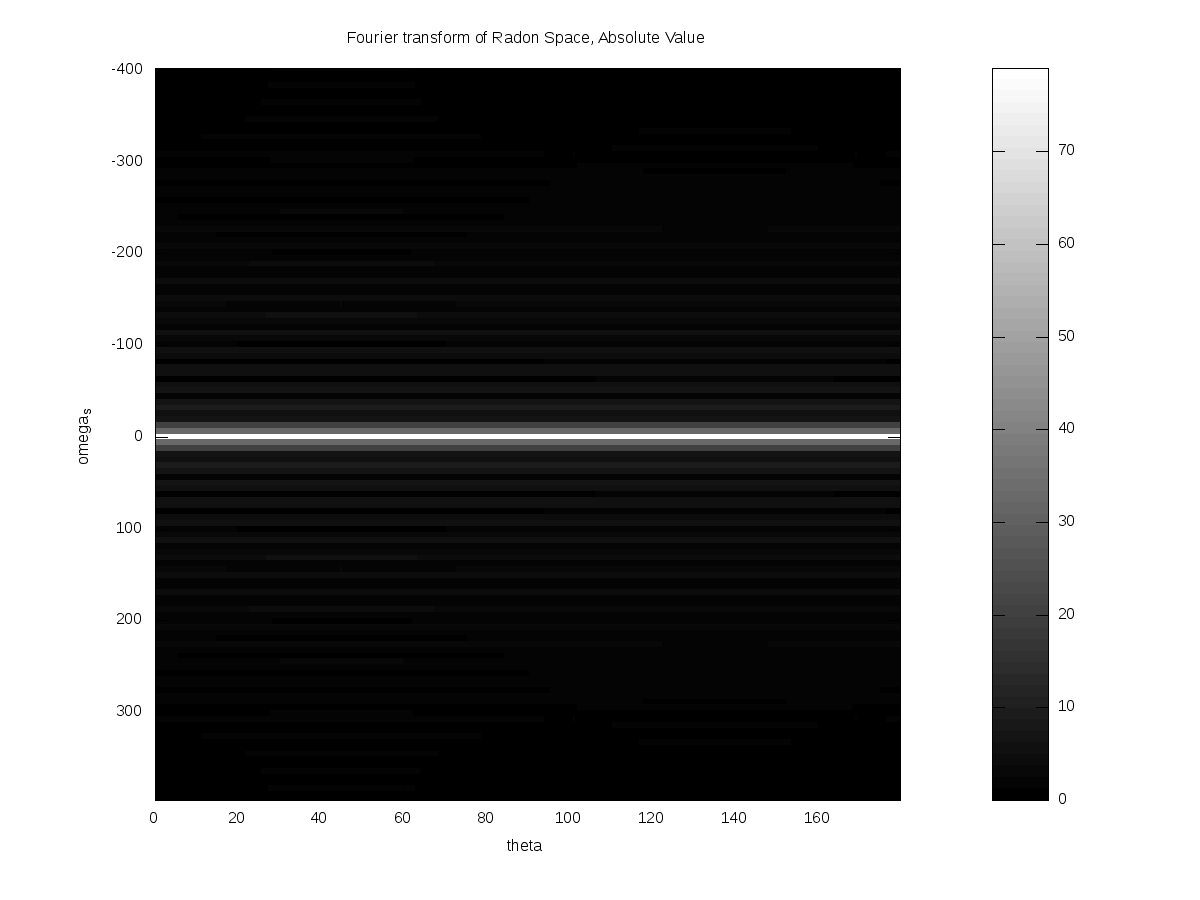
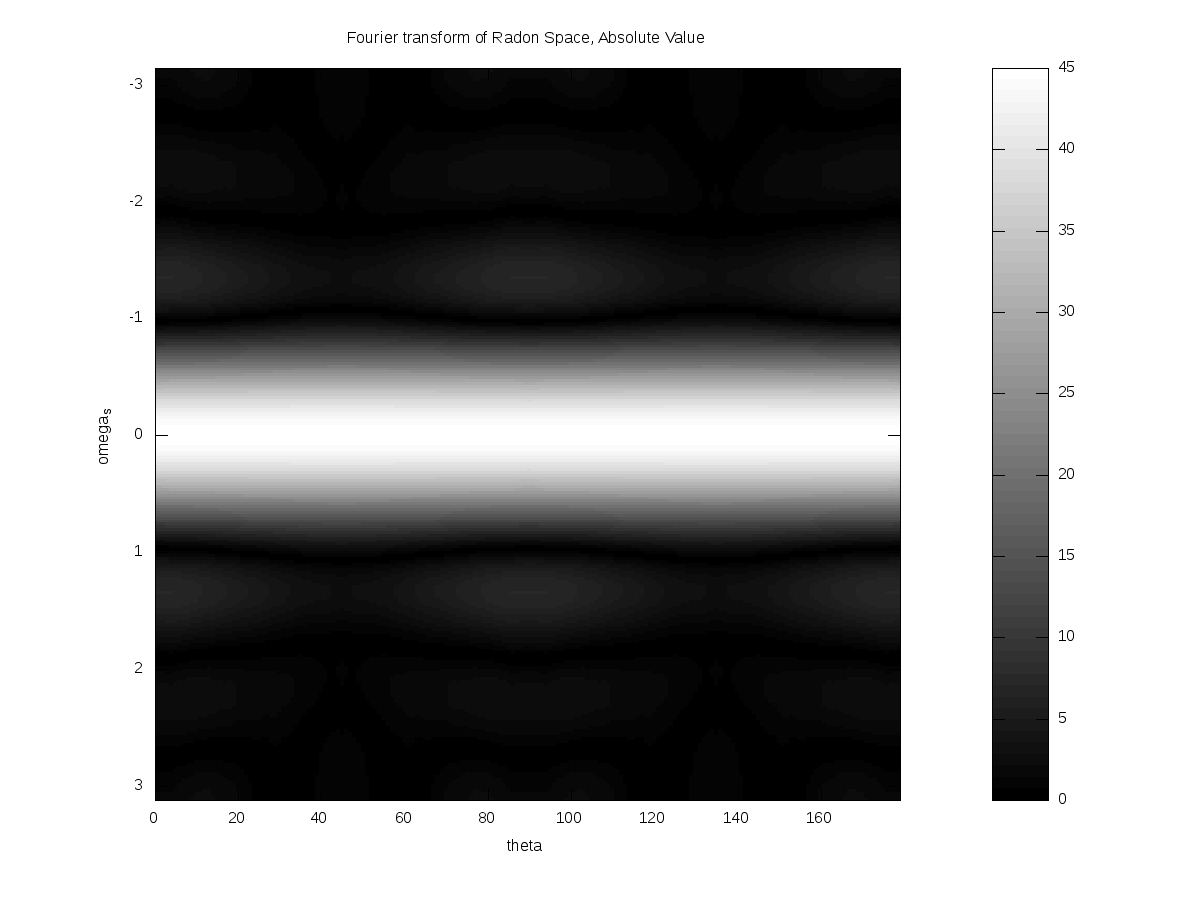
Solved Issue 3. 1. shift the DC to the left before doing FFT --> imaginary part should be zero. 2. correct the formula in "add_noise.m" --> -1 will not appear in Radon space.

diff --git a/branches/doc/zeropad_8m_source.html b/branches/doc/zeropad_8m_source.html
@@ -96,20 +96,31 @@ function toggleVisibility(linkObj) {
 <a name="l00010"></a>00010 % @retval axis_s value of s in each row
 <a name="l00011"></a>00011 function [Radon2 axis_s] = <a class="code" href="zeropad_8m.html#a6eb7731766c5771ae8b938f28a9b97ba" title="Zeropad each column to preprare for FFT.">zeropad</a>(Radon)
 <a name="l00012"></a>00012 
-<a name="l00013"></a>00013 [size_s size_theta] = size(Radon);
-<a name="l00014"></a>00014 next_power_of_2 = 2^ceil(log2(size_s));
+<a name="l00013"></a>00013 [size_s size_theta] = size(Radon)
+<a name="l00014"></a>00014 next_power_of_2 = pow2(nextpow2(size_s));
 <a name="l00015"></a><a class="code" href="zeropad_8m.html#a6eb7731766c5771ae8b938f28a9b97ba">00015</a> 
-<a name="l00016"></a>00016 size_zeropad = next_power_of_2 - size_s;
-<a name="l00017"></a>00017 <a class="code" href="zeropad_8m.html#a6eb7731766c5771ae8b938f28a9b97ba" title="Zeropad each column to preprare for FFT.">zeropad</a> = zeros(floor(size_zeropad/2),size_theta);
-<a name="l00018"></a>00018 Radon2 = vertcat(<a class="code" href="zeropad_8m.html#a6eb7731766c5771ae8b938f28a9b97ba" title="Zeropad each column to preprare for FFT.">zeropad</a>,Radon,<a class="code" href="zeropad_8m.html#a6eb7731766c5771ae8b938f28a9b97ba" title="Zeropad each column to preprare for FFT.">zeropad</a>);
-<a name="l00019"></a>00019 
-<a name="l00020"></a>00020 % <span class="keywordflow">if</span> size of <a class="code" href="zeropad_8m.html#a6eb7731766c5771ae8b938f28a9b97ba" title="Zeropad each column to preprare for FFT.">zeropad</a> is an odd number, add one more row of <a class="code" href="zeropad_8m.html#a6eb7731766c5771ae8b938f28a9b97ba" title="Zeropad each column to preprare for FFT.">zeropad</a> to the bottom.
-<a name="l00021"></a>00021 if(size_zeropad &amp; 2)
-<a name="l00022"></a>00022 Radon2 = vertcat(Radon2,zeros(1,size_theta));
-<a name="l00023"></a>00023 end
-<a name="l00024"></a>00024 
-<a name="l00025"></a>00025 axis_s = linspace(-next_power_of_2/2,next_power_of_2/2,next_power_of_2);
-<a name="l00026"></a>00026 
+<a name="l00016"></a>00016 % Shift the DC to the left
+<a name="l00017"></a>00017 shifted_Radon = ifftshift(Radon,1);
+<a name="l00018"></a>00018 
+<a name="l00019"></a>00019 % Estimate the size of <a class="code" href="zeropad_8m.html#a6eb7731766c5771ae8b938f28a9b97ba" title="Zeropad each column to preprare for FFT.">zeropad</a> required
+<a name="l00020"></a>00020 size_zeropad = next_power_of_2 - size_s;
+<a name="l00021"></a>00021 <a class="code" href="zeropad_8m.html#a6eb7731766c5771ae8b938f28a9b97ba" title="Zeropad each column to preprare for FFT.">zeropad</a> = zeros(size_zeropad,size_theta);
+<a name="l00022"></a>00022 
+<a name="l00023"></a>00023 if(size_s &amp; 2) % if length is an odd number, the &#39;middle&#39; is between (size_s + 1)/2 and (size_s + 1)/2+1
+<a name="l00024"></a>00024         mid_position = (size_s + 1)/2;
+<a name="l00025"></a>00025 else    % if length is an even number, the &#39;middle&#39; is between size_s/2 and size_s/2+1
+<a name="l00026"></a>00026         mid_position = size_s / 2;
+<a name="l00027"></a>00027 end
+<a name="l00028"></a>00028 
+<a name="l00029"></a>00029 % Add zeros to the middle of the shifted signal
+<a name="l00030"></a>00030 shifted_Radon2 = vertcat(shifted_Radon(1:mid_position,:),<a class="code" href="zeropad_8m.html#a6eb7731766c5771ae8b938f28a9b97ba" title="Zeropad each column to preprare for FFT.">zeropad</a>,shifted_Radon((mid_position+1):size_s,:));
+<a name="l00031"></a>00031 
+<a name="l00032"></a>00032 % Shift the DC back to the centre
+<a name="l00033"></a>00033 Radon2 = fftshift(shifted_Radon2,1);
+<a name="l00034"></a>00034 
+<a name="l00035"></a>00035 % label the new s axis
+<a name="l00036"></a>00036 axis_s = linspace(-next_power_of_2/2,next_power_of_2/2,next_power_of_2);
+<a name="l00037"></a>00037 
 </pre></div></div>
 </div>
 <!--- window showing the filter options -->
@@ -126,7 +137,7 @@ function toggleVisibility(linkObj) {
 </iframe>
 </div>
 
-<hr class="footer"/><address class="footer"><small>Generated on Thu Mar 3 2011 20:28:39 by&#160;
+<hr class="footer"/><address class="footer"><small>Generated on Fri Mar 4 2011 00:08:16 by&#160;
 <a href="http://www.doxygen.org/index.html">
 <img class="footer" src="doxygen.png" alt="doxygen"/></a> 1.7.3 </small></address>
 </body>

diff --git a/branches/doc/make__phantom_8m_source.html b/branches/doc/make__phantom_8m_source.html
@@ -99,23 +99,24 @@ function toggleVisibility(linkObj) {
 <a name="l00013"></a>00013 
 <a name="l00014"></a>00014     % T width of the square pulse or the stripe. T must be an even number.
 <a name="l00015"></a>00015     T=round(<a class="code" href="start__simulation_8m.html#a8cc2e7240164328fdc3f0e5e21032c56" title="Size of the phantom.">N</a>/4)*2;
-<a name="l00016"></a><a class="code" href="make__phantom_8m.html#a331e43928fb28a90299da16351a619e6">00016</a> 
+<a name="l00016"></a><a class="code" href="make__phantom_8m.html#a331e43928fb28a90299da16351a619e6">00016</a>     R=T/2;
 <a name="l00017"></a>00017 
 <a name="l00018"></a>00018 <span class="keywordflow">switch</span> <a class="code" href="start__simulation_8m.html#a45cde9abb508c62d67c3bb2b9bf566a5" title="Shape of the phantom.">shape</a>
 <a name="l00019"></a>00019   <span class="keywordflow">case</span> {<span class="stringliteral">&#39;Shepp-Logan&#39;</span>,<span class="stringliteral">&#39;Modified Shepp-Logan&#39;</span>}
 <a name="l00020"></a>00020     % Modified Shepp-Logan&#39; gives better visual perception than &#39;Shepp-Logan&#39;
 <a name="l00021"></a>00021     P = phantom(<a class="code" href="start__simulation_8m.html#a45cde9abb508c62d67c3bb2b9bf566a5" title="Shape of the phantom.">shape</a>,<a class="code" href="start__simulation_8m.html#a8cc2e7240164328fdc3f0e5e21032c56" title="Size of the phantom.">N</a>);
 <a name="l00022"></a>00022   <span class="keywordflow">case</span> {<span class="stringliteral">&#39;dot&#39;</span>}
-<a name="l00023"></a>00023     T=2;
-<a name="l00024"></a>00024     P=[zeros(N,(N-T)/2) ones(N,T) zeros(N,(N-T)/2)];
-<a name="l00025"></a>00025     P=P<span class="stringliteral">&#39;*P;</span>
-<a name="l00026"></a>00026 <span class="stringliteral">  case {&#39;</span>square<span class="stringliteral">&#39;}</span>
-<a name="l00027"></a>00027 <span class="stringliteral">    P=[zeros(N,(N-T)/2) ones(N,T) zeros(N,(N-T)/2)];</span>
-<a name="l00028"></a>00028 <span class="stringliteral">    P=P&#39;</span>*P;
-<a name="l00029"></a>00029   <span class="keywordflow">case</span> {<span class="stringliteral">&#39;stripe&#39;</span>}
-<a name="l00030"></a>00030     P=[zeros(N,(N-T)/2) ones(N,T) zeros(N,(N-T)/2)];
-<a name="l00031"></a>00031 end
-<a name="l00032"></a>00032 
+<a name="l00023"></a>00023     R=4;
+<a name="l00024"></a>00024     x=linspace(-<a class="code" href="start__simulation_8m.html#a8cc2e7240164328fdc3f0e5e21032c56" title="Size of the phantom.">N</a>/2,<a class="code" href="start__simulation_8m.html#a8cc2e7240164328fdc3f0e5e21032c56" title="Size of the phantom.">N</a>/2,<a class="code" href="start__simulation_8m.html#a8cc2e7240164328fdc3f0e5e21032c56" title="Size of the phantom.">N</a>); y=x; [X, Y]=meshgrid(x,y); P=(X.^2 +Y.^2 &lt;= R^2);
+<a name="l00025"></a>00025   <span class="keywordflow">case</span> {<span class="stringliteral">&#39;square&#39;</span>}
+<a name="l00026"></a>00026     P=[zeros(N,(N-T)/2) ones(N,T) zeros(N,(N-T)/2)];
+<a name="l00027"></a>00027     P=P<span class="stringliteral">&#39;*P;</span>
+<a name="l00028"></a>00028 <span class="stringliteral">  case {&#39;</span>stripe<span class="stringliteral">&#39;}</span>
+<a name="l00029"></a>00029 <span class="stringliteral">    P=[zeros(N,(N-T)/2) ones(N,T) zeros(N,(N-T)/2)];</span>
+<a name="l00030"></a>00030 <span class="stringliteral">  case {&#39;</span>circle<span class="stringliteral">&#39;}</span>
+<a name="l00031"></a>00031 <span class="stringliteral">    x=linspace(-N/2,N/2,N); y=x; [X, Y]=meshgrid(x,y); P=(X.^2 +Y.^2 &lt;= R^2);</span>
+<a name="l00032"></a>00032 <span class="stringliteral">end</span>
+<a name="l00033"></a>00033 <span class="stringliteral"></span>
 </pre></div></div>
 </div>
 <!--- window showing the filter options -->
@@ -132,7 +133,7 @@ function toggleVisibility(linkObj) {
 </iframe>
 </div>
 
-<hr class="footer"/><address class="footer"><small>Generated on Thu Mar 3 2011 20:28:39 by&#160;
+<hr class="footer"/><address class="footer"><small>Generated on Fri Mar 4 2011 00:08:16 by&#160;
 <a href="http://www.doxygen.org/index.html">
 <img class="footer" src="doxygen.png" alt="doxygen"/></a> 1.7.3 </small></address>
 </body>

diff --git a/branches/doc/start__simulation_8m.html b/branches/doc/start__simulation_8m.html
@@ -102,7 +102,7 @@ Variables</h2></td></tr>
 <tr><td class="memItemLeft" align="right" valign="top"><a class="anchor" id="a45cde9abb508c62d67c3bb2b9bf566a5"></a><!-- doxytag: member="start_simulation.m::shape" ref="a45cde9abb508c62d67c3bb2b9bf566a5" args="" -->
 &#160;</td><td class="memItemRight" valign="bottom"><a class="el" href="start__simulation_8m.html#a45cde9abb508c62d67c3bb2b9bf566a5">shape</a> = 'dot'</td></tr>
 <tr><td class="mdescLeft">&#160;</td><td class="mdescRight">Shape of the phantom. <br/></td></tr>
-<tr><td class="memItemLeft" align="right" valign="top">&#160;</td><td class="memItemRight" valign="bottom"><a class="el" href="start__simulation_8m.html#a8cc2e7240164328fdc3f0e5e21032c56">N</a> = 80</td></tr>
+<tr><td class="memItemLeft" align="right" valign="top">&#160;</td><td class="memItemRight" valign="bottom"><a class="el" href="start__simulation_8m.html#a8cc2e7240164328fdc3f0e5e21032c56">N</a> = 231</td></tr>
 <tr><td class="mdescLeft">&#160;</td><td class="mdescRight">Size of the phantom.  <a href="#a8cc2e7240164328fdc3f0e5e21032c56"></a><br/></td></tr>
 <tr><td class="memItemLeft" align="right" valign="top"><a class="anchor" id="aeb75561ac6a7625d16498b7e8da17b79"></a><!-- doxytag: member="start_simulation.m::SNR" ref="aeb75561ac6a7625d16498b7e8da17b79" args="" -->
 &#160;</td><td class="memItemRight" valign="bottom"><a class="el" href="start__simulation_8m.html#aeb75561ac6a7625d16498b7e8da17b79">SNR</a> = 0</td></tr>
@@ -135,16 +135,16 @@ Variables</h2></td></tr>
 <div class="memproto">
       <table class="memname">
         <tr>
-          <td class="memname"><a class="el" href="start__simulation_8m.html#a8cc2e7240164328fdc3f0e5e21032c56">N</a> = 80</td>
+          <td class="memname"><a class="el" href="start__simulation_8m.html#a8cc2e7240164328fdc3f0e5e21032c56">N</a> = 231</td>
         </tr>
       </table>
 </div>
 <div class="memdoc">
 
 <p>Size of the phantom. </p>
-<p>This specifies the number of rows and columns in the matrix of Phantom. </p>
+<p>This specifies the number of rows and columns in the matrix of Phantom. N is suggested to be an odd number. </p>
 
-<p>Definition at line <a class="el" href="start__simulation_8m_source.html#l00027">27</a> of file <a class="el" href="start__simulation_8m_source.html">start_simulation.m</a>.</p>
+<p>Definition at line <a class="el" href="start__simulation_8m_source.html#l00028">28</a> of file <a class="el" href="start__simulation_8m_source.html">start_simulation.m</a>.</p>
 
 </div>
 </div>
@@ -163,7 +163,7 @@ Variables</h2></td></tr>
 </iframe>
 </div>
 
-<hr class="footer"/><address class="footer"><small>Generated on Thu Mar 3 2011 20:28:39 by&#160;
+<hr class="footer"/><address class="footer"><small>Generated on Fri Mar 4 2011 00:08:16 by&#160;
 <a href="http://www.doxygen.org/index.html">
 <img class="footer" src="doxygen.png" alt="doxygen"/></a> 1.7.3 </small></address>
 </body>

diff --git a/branches/doc/start__simulation_8m_source.html b/branches/doc/start__simulation_8m_source.html
@@ -102,12 +102,13 @@ function toggleVisibility(linkObj) {
 <a name="l00016"></a>00016 
 <a name="l00017"></a>00017 %! Size of the phantom.
 <a name="l00018"></a>00018 % This specifies the number of rows and columns in the matrix of Phantom.
-<a name="l00019"></a>00019 N = 80;
-<a name="l00020"></a>00020 
-<a name="l00021"></a><a class="code" href="start__simulation_8m.html#a45cde9abb508c62d67c3bb2b9bf566a5">00021</a> %! Signal to noise ratio.
-<a name="l00022"></a>00022 SNR = 0;
-<a name="l00023"></a>00023 
-<a name="l00024"></a>00024 <a class="code" href="main_8m.html#a453de8d450dd0d46c3e3bed423301dfa" title="Main process of the simulation.">main</a>(<a class="code" href="start__simulation_8m.html#a45cde9abb508c62d67c3bb2b9bf566a5" title="Shape of the phantom.">shape</a>,<a class="code" href="start__simulation_8m.html#a8cc2e7240164328fdc3f0e5e21032c56" title="Size of the phantom.">N</a>,<a class="code" href="start__simulation_8m.html#aeb75561ac6a7625d16498b7e8da17b79" title="Signal to noise ratio.">SNR</a>,<a class="code" href="start__simulation_8m.html#a73585d7121de037cf2e2ca12b27eb83e" title="Debug the program.">DEBUG</a>);
+<a name="l00019"></a>00019 % <a class="code" href="start__simulation_8m.html#a8cc2e7240164328fdc3f0e5e21032c56" title="Size of the phantom.">N</a> is suggested to be an odd number.
+<a name="l00020"></a>00020 N = 231;
+<a name="l00021"></a><a class="code" href="start__simulation_8m.html#a45cde9abb508c62d67c3bb2b9bf566a5">00021</a> 
+<a name="l00022"></a>00022 %! Signal to noise ratio.
+<a name="l00023"></a>00023 SNR = 0;
+<a name="l00024"></a>00024 
+<a name="l00025"></a>00025 <a class="code" href="main_8m.html#a453de8d450dd0d46c3e3bed423301dfa" title="Main process of the simulation.">main</a>(<a class="code" href="start__simulation_8m.html#a45cde9abb508c62d67c3bb2b9bf566a5" title="Shape of the phantom.">shape</a>,<a class="code" href="start__simulation_8m.html#a8cc2e7240164328fdc3f0e5e21032c56" title="Size of the phantom.">N</a>,<a class="code" href="start__simulation_8m.html#aeb75561ac6a7625d16498b7e8da17b79" title="Signal to noise ratio.">SNR</a>,<a class="code" href="start__simulation_8m.html#a73585d7121de037cf2e2ca12b27eb83e" title="Debug the program.">DEBUG</a>);
 </pre></div></div>
 </div>
 <!--- window showing the filter options -->
@@ -124,7 +125,7 @@ function toggleVisibility(linkObj) {
 </iframe>
 </div>
 
-<hr class="footer"/><address class="footer"><small>Generated on Thu Mar 3 2011 20:28:39 by&#160;
+<hr class="footer"/><address class="footer"><small>Generated on Fri Mar 4 2011 00:08:16 by&#160;
 <a href="http://www.doxygen.org/index.html">
 <img class="footer" src="doxygen.png" alt="doxygen"/></a> 1.7.3 </small></address>
 </body>

diff --git a/branches/doc/apply__fft1_8m_source.html b/branches/doc/apply__fft1_8m_source.html
@@ -98,12 +98,12 @@ function toggleVisibility(linkObj) {
 <a name="l00012"></a>00012 function [Fourier_Radon axis_omega_s] = <a class="code" href="apply__fft1_8m.html#a2317ac3c592340b05f8b6a2a74f9e8b6" title="Apply FFT to each columns of the matrix, then shifts the DC to the DFT centre.">apply_fft1</a>(Radon,<a class="code" href="start__simulation_8m.html#a73585d7121de037cf2e2ca12b27eb83e" title="Debug the program.">DEBUG</a>)
 <a name="l00013"></a>00013 
 <a name="l00014"></a>00014 % Apply FFT to each column of the radon image
-<a name="l00015"></a>00015 Fourier_Radon = fft(Radon);
+<a name="l00015"></a>00015 Fourier_Radon = fft(ifftshift(Radon,1));
 <a name="l00016"></a><a class="code" href="apply__fft1_8m.html#a2317ac3c592340b05f8b6a2a74f9e8b6">00016</a> 
 <a name="l00017"></a>00017 % Label the axis_omega_s,theta axes;
 <a name="l00018"></a>00018 dx=1;
 <a name="l00019"></a>00019 [size_omega_s size_theta] = size(Fourier_Radon);
-<a name="l00020"></a>00020 axis_omega_s = [0:(size_omega_s/2-1)  (-size_omega_s/2):-1] * 2*pi/dx;
+<a name="l00020"></a>00020 axis_omega_s = [0:(size_omega_s/2-1)  (-size_omega_s/2):-1] * 2*pi/(size_omega_s*dx);
 <a name="l00021"></a>00021 
 <a name="l00022"></a>00022 % Shift the DC to the DFT centre
 <a name="l00023"></a>00023 axis_omega_s = fftshift(axis_omega_s);
@@ -142,7 +142,7 @@ function toggleVisibility(linkObj) {
 </iframe>
 </div>
 
-<hr class="footer"/><address class="footer"><small>Generated on Thu Mar 3 2011 20:28:39 by&#160;
+<hr class="footer"/><address class="footer"><small>Generated on Fri Mar 4 2011 00:08:16 by&#160;
 <a href="http://www.doxygen.org/index.html">
 <img class="footer" src="doxygen.png" alt="doxygen"/></a> 1.7.3 </small></address>
 </body>

diff --git a/branches/doc/add__noise_8m_source.html b/branches/doc/add__noise_8m_source.html
@@ -99,10 +99,11 @@ function toggleVisibility(linkObj) {
 <a name="l00013"></a>00013 
 <a name="l00014"></a>00014 [height width] = size(image);
 <a name="l00015"></a>00015 
-<a name="l00016"></a><a class="code" href="add__noise_8m.html#abbd309950ef9955b6474885e916a6640">00016</a> noise = rand(height,width) * <a class="code" href="start__simulation_8m.html#aeb75561ac6a7625d16498b7e8da17b79" title="Signal to noise ratio.">SNR</a> *2 -1;
-<a name="l00017"></a>00017 
-<a name="l00018"></a>00018 new_image = image + noise;
-<a name="l00019"></a>00019 
+<a name="l00016"></a><a class="code" href="add__noise_8m.html#abbd309950ef9955b6474885e916a6640">00016</a> % support linear noise only.
+<a name="l00017"></a>00017 noise = (rand(height,width) *2 -1)*<a class="code" href="start__simulation_8m.html#aeb75561ac6a7625d16498b7e8da17b79" title="Signal to noise ratio.">SNR</a>;
+<a name="l00018"></a>00018 
+<a name="l00019"></a>00019 new_image = image + noise;
+<a name="l00020"></a>00020 
 </pre></div></div>
 </div>
 <!--- window showing the filter options -->
@@ -119,7 +120,7 @@ function toggleVisibility(linkObj) {
 </iframe>
 </div>
 
-<hr class="footer"/><address class="footer"><small>Generated on Thu Mar 3 2011 20:28:39 by&#160;
+<hr class="footer"/><address class="footer"><small>Generated on Fri Mar 4 2011 00:08:16 by&#160;
 <a href="http://www.doxygen.org/index.html">
 <img class="footer" src="doxygen.png" alt="doxygen"/></a> 1.7.3 </small></address>
 </body>

diff --git a/branches/doc/files.html b/branches/doc/files.html
@@ -109,7 +109,7 @@ function toggleVisibility(linkObj) {
 </iframe>
 </div>
 
-<hr class="footer"/><address class="footer"><small>Generated on Thu Mar 3 2011 20:28:39 by&#160;
+<hr class="footer"/><address class="footer"><small>Generated on Fri Mar 4 2011 00:08:16 by&#160;
 <a href="http://www.doxygen.org/index.html">
 <img class="footer" src="doxygen.png" alt="doxygen"/></a> 1.7.3 </small></address>
 </body>

diff --git a/branches/doc/globals.html b/branches/doc/globals.html
@@ -135,7 +135,7 @@ function toggleVisibility(linkObj) {
 </iframe>
 </div>
 
-<hr class="footer"/><address class="footer"><small>Generated on Thu Mar 3 2011 20:28:39 by&#160;
+<hr class="footer"/><address class="footer"><small>Generated on Fri Mar 4 2011 00:08:16 by&#160;
 <a href="http://www.doxygen.org/index.html">
 <img class="footer" src="doxygen.png" alt="doxygen"/></a> 1.7.3 </small></address>
 </body>

diff --git a/branches/doc/globals_func.html b/branches/doc/globals_func.html
@@ -123,7 +123,7 @@ function toggleVisibility(linkObj) {
 </iframe>
 </div>
 
-<hr class="footer"/><address class="footer"><small>Generated on Thu Mar 3 2011 20:28:39 by&#160;
+<hr class="footer"/><address class="footer"><small>Generated on Fri Mar 4 2011 00:08:16 by&#160;
 <a href="http://www.doxygen.org/index.html">
 <img class="footer" src="doxygen.png" alt="doxygen"/></a> 1.7.3 </small></address>
 </body>

diff --git a/branches/doc/globals_vars.html b/branches/doc/globals_vars.html
@@ -117,7 +117,7 @@ function toggleVisibility(linkObj) {
 </iframe>
 </div>
 
-<hr class="footer"/><address class="footer"><small>Generated on Thu Mar 3 2011 20:28:39 by&#160;
+<hr class="footer"/><address class="footer"><small>Generated on Fri Mar 4 2011 00:08:16 by&#160;
 <a href="http://www.doxygen.org/index.html">
 <img class="footer" src="doxygen.png" alt="doxygen"/></a> 1.7.3 </small></address>
 </body>

diff --git a/branches/doc/main_8m_source.html b/branches/doc/main_8m_source.html
@@ -153,7 +153,7 @@ function toggleVisibility(linkObj) {
 </iframe>
 </div>
 
-<hr class="footer"/><address class="footer"><small>Generated on Thu Mar 3 2011 20:28:39 by&#160;
+<hr class="footer"/><address class="footer"><small>Generated on Fri Mar 4 2011 00:08:16 by&#160;
 <a href="http://www.doxygen.org/index.html">
 <img class="footer" src="doxygen.png" alt="doxygen"/></a> 1.7.3 </small></address>
 </body>

diff --git a/branches/doc/save__image_8m_source.html b/branches/doc/save__image_8m_source.html
@@ -121,7 +121,7 @@ function toggleVisibility(linkObj) {
 </iframe>
 </div>
 
-<hr class="footer"/><address class="footer"><small>Generated on Thu Mar 3 2011 20:28:39 by&#160;
+<hr class="footer"/><address class="footer"><small>Generated on Fri Mar 4 2011 00:08:16 by&#160;
 <a href="http://www.doxygen.org/index.html">
 <img class="footer" src="doxygen.png" alt="doxygen"/></a> 1.7.3 </small></address>
 </body>
